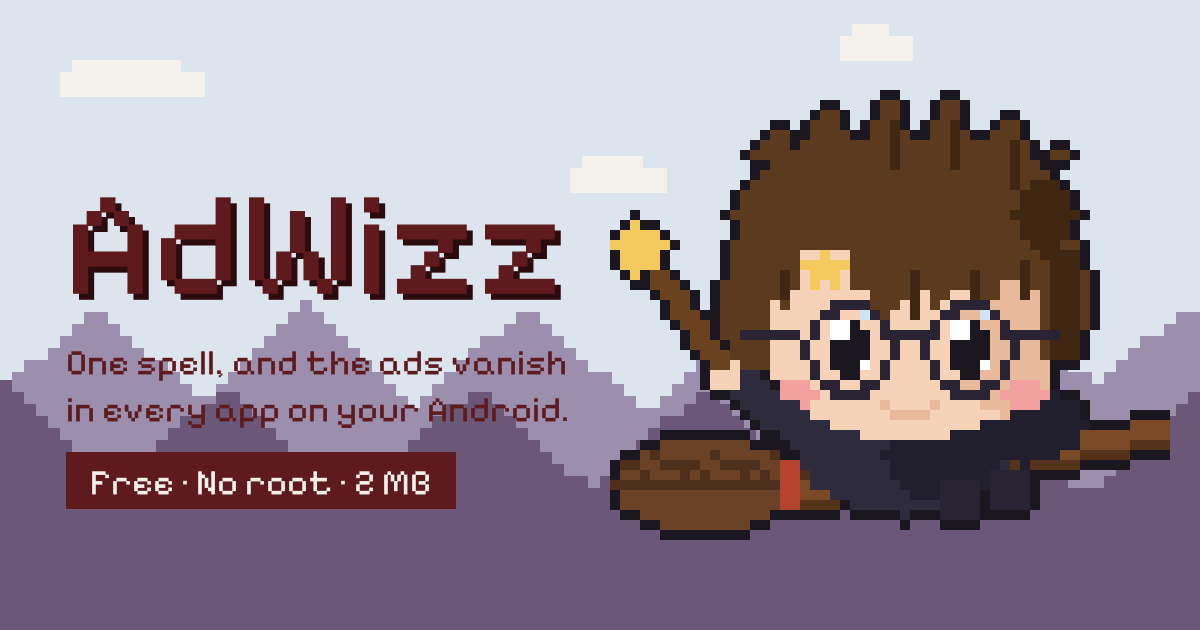
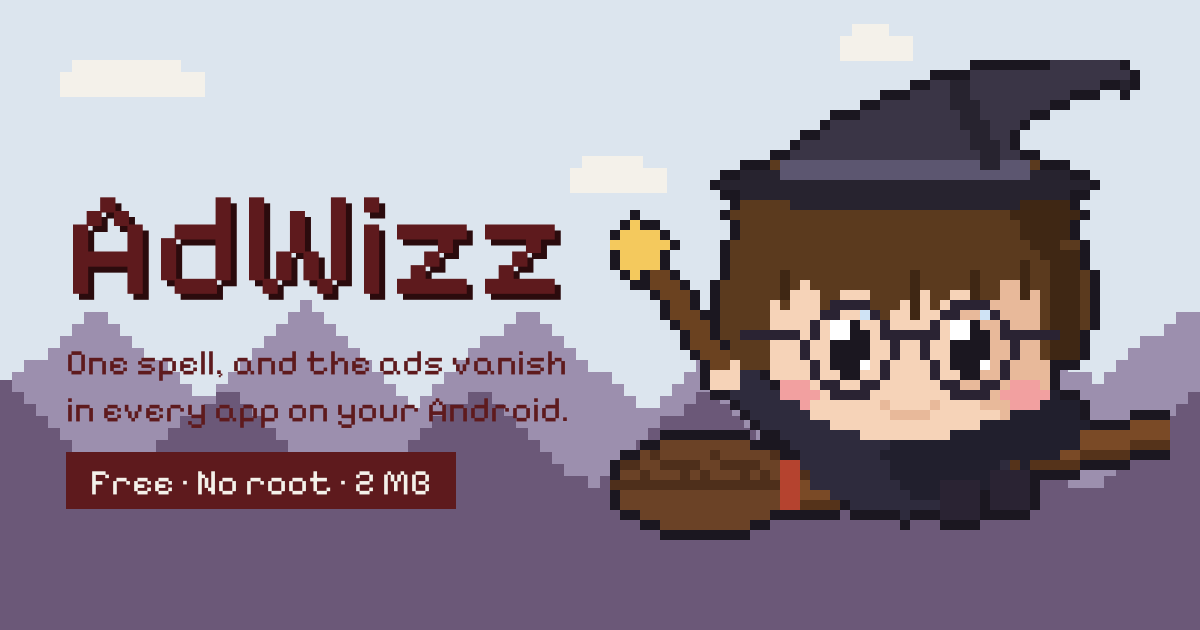
Wizard: black pointed hat instead of the forehead star

Changed region(s): [[0.5858, 0.0905, 0.9558, 0.3317], [0.6475, 0.3921, 0.7092, 0.4825]]

diff --git a/app/src/main/java/rocks/chirag/adwizz/ui/WizardIdleFrame.kt b/app/src/main/java/rocks/chirag/adwizz/ui/WizardIdleFrame.kt
@@ -5,28 +5,31 @@ package rocks.chirag.adwizz.ui
 /** Wizard frame: riding, wand tucked along the broom. */
 internal object WizardIdleFrame {
     val ROWS = arrayOf(
-        "...........................OO....OO.....................",
-        ".....................OO...ONNO..ONNO....................",
-        "....................ONNO..ONNO..ONNO...OO...............",
-        "................OO.ONNNO.ONNnO.ONNnO..ONNO..............",
-        "...............ONNOONNNNOONNnNOONNnNOONNNO..............",
-        "..............ONNNONNNNNNNNNnNNNNNnNNNNNnNO.OO..........",
-        ".............ONNNNNNNNNNNNNNnNNNNNnNNNNNnNOONNO.........",
-        "..............OONNNNNNNNNNNNnNNNNNnNNNNNnNNOOO..........",
-        "..............ONNNNNNNNNNNNNNNNNNNNNNNNNnNNNO...........",
-        ".............ONNNNNNNNNNNNNNNNNNNNNNNNNNnNnnnO..........",
-        "............ONNNNNNNNNNNNNNNNNNNNNNNNNNNNnnnnnO.........",
-        "............ONNNNNNNNNNNNNNNNNNNNNNNNNNNNnnnnnO.........",
+        "....................................OOOOOOOOHHHHHHHO....",
+        "................................OOOOHHHHHHHHHHHHHHHHO...",
+        "..............................OOHHhhHHHHHHHHHHHHHOOhO...",
+        "...........................OOOHHHHhhHHHHHHHHHHOOO..O....",
+        ".........................OOHHHHHHHhhhHHHHHHHOO..........",
+        "......................OOOHHHHHHHHHHhhHHHHHOO............",
+        ".....................OHHHHHHHHHHHHHhhhHHHO..............",
+        "...................OOHHHHHHHHHHHHHHHhhHHO...............",
+        "..................OHHHHHHHHHHHHHHHHHhhhHO...............",
+        "................OOHHHHHHHHHHHHHHHHHHHhhHHOO.............",
+        ".............OOONBBBBBBBBBBBBBBBBBBBBhhBBBNOOO..........",
+        "...........OOhhhhBBBBBBBBBBBBBBBBBBBBBBBBBhhhhOO........",
+        "..........OhhhhhhhhhhhhhhhhhhhhhhhhhhhhhhhhhhhhhO.......",
+        "...........OOhhhhhhhhhhhhhhhhhhhhhhhhhhhhhhhhhOO........",
+        "............ONNNNNhhhhhhhhhhhhhhhhhhhhhhhnnnnnO.........",
         "...........ONNNNNNNNNNNNNNNNNNNNNNNNNNNNnnnnnnnO........",
         "............ONNNNNNNNNNNNNNNNNNNNNNNNNNNNnnnnnO.........",
         "............ONNNNNNNNNNNNNNNNNNNNNNNNNNNNnnnnnO.........",
         "...........ONNNNNNNNNNNNNNNNNNNNNNNNNNNNNNnnnNNO........",
-        "...........ONNNNNNNFFSFFNNNNNNNNNNNNNNNNNNNnnnnO........",
-        "...........ONNNNNNNSSSSSNNNNNNNNNNNNNNNNNnNNnnnO........",
-        "...........ONNNNNnNFSSSFNNNNNNnNNNNNnNNNNnNNnnnNO.......",
-        "..........ONNNNNNnNFSFSFNNNNNNnNNNNNnNNffnNNnnnNO.......",
-        "..........ONNNNNNnFFFFFFFFNNNNnFNNFFnNNffnfNnnnNO.......",
-        "..........ONNNNNFNFFFFGGGGNNNFnFNFGGGGfffffNnnnNO.......",
+        "...........ONNNNNNNNNNNNNNNNNNNNNNNNNNNNNNNnnnnO........",
+        "...........ONNNNNNNNNNNNNNNNNNNNNNNNNNNNNnNNnnnO........",
+        "...........ONNNNNnNNNNNNNNNNNNnNNNNNnNNNNnNNnnnNO.......",
+        "..........ONNNNNNnNFNNNNNNNNNNnNNNNNnNNffnNNnnnNO.......",
+        "..........ONNNNNNnFFFNNFFFNNNNnFNNFFnNNffnfNnnnNO.......",
+        "..........ONNNNNFNFFFNGGGGNNNFnFNFGGGGfffffNnnnNO.......",
         "..........ONNNNNFFFFFGGFFgGNFFnFFGGffgGffffNnnnNO.......",
         "..........ONNNNNFFFFGFwwEFFGFFFFGFwwEffGfffNnnnNO.......",
         "..........ONNGGGGGGFGFwwEEFGGGGGGFwwEEfGGGGGGnnO........",

diff --git a/app/src/main/java/rocks/chirag/adwizz/ui/WizardCastingFrame.kt b/app/src/main/java/rocks/chirag/adwizz/ui/WizardCastingFrame.kt
@@ -5,28 +5,31 @@ package rocks.chirag.adwizz.ui
 /** Wizard frame: wand raised, casting the spell. */
 internal object WizardCastingFrame {
     val ROWS = arrayOf(
-        "...........................OO....OO.....................",
-        ".....................OO...ONNO..ONNO....................",
-        "....................ONNO..ONNO..ONNO...OO...............",
-        "................OO.ONNNO.ONNnO.ONNnO..ONNO..............",
-        "...............ONNOONNNNOONNnNOONNnNOONNNO..............",
-        "..............ONNNONNNNNNNNNnNNNNNnNNNNNnNO.OO..........",
-        ".............ONNNNNNNNNNNNNNnNNNNNnNNNNNnNOONNO.........",
-        "..............OONNNNNNNNNNNNnNNNNNnNNNNNnNNOOO..........",
-        "..............ONNNNNNNNNNNNNNNNNNNNNNNNNnNNNO...........",
-        ".............ONNNNNNNNNNNNNNNNNNNNNNNNNNnNnnnO..........",
-        "............ONNNNNNNNNNNNNNNNNNNNNNNNNNNNnnnnnO.........",
-        "............ONNNNNNNNNNNNNNNNNNNNNNNNNNNNnnnnnO.........",
+        "....................................OOOOOOOOHHHHHHHO....",
+        "................................OOOOHHHHHHHHHHHHHHHHO...",
+        "..............................OOHHhhHHHHHHHHHHHHHOOhO...",
+        "...........................OOOHHHHhhHHHHHHHHHHOOO..O....",
+        ".........................OOHHHHHHHhhhHHHHHHHOO..........",
+        "......................OOOHHHHHHHHHHhhHHHHHOO............",
+        ".....................OHHHHHHHHHHHHHhhhHHHO..............",
+        "...................OOHHHHHHHHHHHHHHHhhHHO...............",
+        "..................OHHHHHHHHHHHHHHHHHhhhHO...............",
+        "................OOHHHHHHHHHHHHHHHHHHHhhHHOO.............",
+        ".............OOONBBBBBBBBBBBBBBBBBBBBhhBBBNOOO..........",
+        "...........OOhhhhBBBBBBBBBBBBBBBBBBBBBBBBBhhhhOO........",
+        "..........OhhhhhhhhhhhhhhhhhhhhhhhhhhhhhhhhhhhhhO.......",
+        "...........OOhhhhhhhhhhhhhhhhhhhhhhhhhhhhhhhhhOO........",
+        "............ONNNNNhhhhhhhhhhhhhhhhhhhhhhhnnnnnO.........",
         "..O........ONNNNNNNNNNNNNNNNNNNNNNNNNNNNnnnnnnnO........",
         ".OSOO.......ONNNNNNNNNNNNNNNNNNNNNNNNNNNNnnnnnO.........",
         "OSSSSO......ONNNNNNNNNNNNNNNNNNNNNNNNNNNNnnnnnO.........",
         "SSSSSSO....ONNNNNNNNNNNNNNNNNNNNNNNNNNNNNNnnnNNO........",
-        "OSSSSO.....ONNNNNNNFFSFFNNNNNNNNNNNNNNNNNNNnnnnO........",
-        "OSSSSO.....ONNNNNNNSSSSSNNNNNNNNNNNNNNNNNnNNnnnO........",
-        ".OSOWWO....ONNNNNnNFSSSFNNNNNNnNNNNNnNNNNnNNnnnNO.......",
-        "..OOWWWO..ONNNNNNnNFSFSFNNNNNNnNNNNNnNNffnNNnnnNO.......",
-        "....OWWWO.ONNNNNNnFFFFFFFFNNNNnFNNFFnNNffnfNnnnNO.......",
-        ".....OWWO.ONNNNNFNFFFFGGGGNNNFnFNFGGGGfffffNnnnNO.......",
+        "OSSSSO.....ONNNNNNNNNNNNNNNNNNNNNNNNNNNNNNNnnnnO........",
+        "OSSSSO.....ONNNNNNNNNNNNNNNNNNNNNNNNNNNNNnNNnnnO........",
+        ".OSOWWO....ONNNNNnNNNNNNNNNNNNnNNNNNnNNNNnNNnnnNO.......",
+        "..OOWWWO..ONNNNNNnNFNNNNNNNNNNnNNNNNnNNffnNNnnnNO.......",
+        "....OWWWO.ONNNNNNnFFFNNFFFNNNNnFNNFFnNNffnfNnnnNO.......",
+        ".....OWWO.ONNNNNFNFFFNGGGGNNNFnFNFGGGGfffffNnnnNO.......",
         ".....OWWWOONNNNNFFFFFGGFFgGNFFnFFGGffgGffffNnnnNO.......",
         "......OWWWONNNNNFFFFGFwwEFFGFFFFGFwwEffGfffNnnnNO.......",
         ".......OWWONNGGGGGGFGFwwEEFGGGGGGFwwEEfGGGGGGnnO........",

diff --git a/docs/404.html b/docs/404.html
@@ -1,4 +1,4 @@
 <!doctype html><html lang="en"><head><meta charset="utf-8"><meta name="viewport" content="width=device-width,initial-scale=1">
 <title>Page not found — AdWizz</title><meta name="robots" content="noindex"><link rel="canonical" href="https://chiragkushwaha.github.io/AdWizz/">
 <style>body{margin:0;min-height:100vh;display:grid;place-items:center;background:#dce5ee;color:#3a1215;font:18px/1.5 system-ui,sans-serif;text-align:center;padding:16px}a{color:#5e1a1d;font-weight:700}</style></head>
-<body><main><img src="/AdWizz/img/wizard.png" width="224" height="188" alt="AdWizz wizard"><h1>This page vanished</h1><p>The wizard may have cast one spell too many.</p><p><a href="/AdWizz/">Back to AdWizz</a></p></main></body></html>
+<body><main><img src="/AdWizz/img/wizard.png" width="224" height="200" alt="AdWizz wizard"><h1>This page vanished</h1><p>The wizard may have cast one spell too many.</p><p><a href="/AdWizz/">Back to AdWizz</a></p></main></body></html>

diff --git a/app/src/main/java/rocks/chirag/adwizz/ui/WizardArt.kt b/app/src/main/java/rocks/chirag/adwizz/ui/WizardArt.kt
@@ -4,17 +4,20 @@ import androidx.compose.ui.graphics.Color
 
 // GENERATED by scripts/make_wizard.py — edit the script, not this file.
 
-/** AdWizz's pixel wizard on a broom (56x47 cells). '.' is transparent. */
+/** AdWizz's pixel wizard on a broom (56x50 cells). '.' is transparent. */
 object WizardArt {
     const val WIDTH = 56
-    const val HEIGHT = 47
+    const val HEIGHT = 50
 
     /** Wand tip cell in the casting frame, where the spell sparkles start. */
     const val WAND_X = 2
-    const val WAND_Y = 15
+    const val WAND_Y = 18
 
     val palette: Map<Char, Color> = mapOf(
         'O' to Color(0xFF1B1720),
+        'H' to Color(0xFF3A3546),
+        'h' to Color(0xFF27232F),
+        'B' to Color(0xFF5C5670),
         'S' to Color(0xFFF4C95D),
         'F' to Color(0xFFF6D3B8),
         'f' to Color(0xFFE8B99A),

diff --git a/app/src/test/java/rocks/chirag/adwizz/ui/ArtTest.kt b/app/src/test/java/rocks/chirag/adwizz/ui/ArtTest.kt
@@ -22,9 +22,9 @@ class WizardArtTest {
         assertNotEquals(WizardArt.IDLE.joinToString(), WizardArt.CASTING.joinToString())
     }
 
-    @Test fun wizardHasHairGlassesStarCloakEyesAndBroom() {
+    @Test fun wizardHasHatHairGlassesCloakEyesAndBroom() {
         val all = WizardArt.CASTING.joinToString("")
-        listOf('N', 'G', 'S', 'C', 'K', 'Y', 'F', 'E').forEach { assertTrue("missing '$it'", it in all) }
+        listOf('H', 'N', 'G', 'C', 'K', 'Y', 'F', 'E').forEach { assertTrue("missing '$it'", it in all) }
     }
 }
 

diff --git a/docs/index.html b/docs/index.html
@@ -64,7 +64,7 @@
         </div>
         <p class="meta" id="version" aria-live="polite">Android 7.0+ · about 2 MB · free &amp; open source (MIT)</p>
       </div>
-      <img class="wizard" src="img/wizard.png" width="448" height="376" fetchpriority="high" decoding="async" alt="AdWizz's pixel wizard flying on a broom">
+      <img class="wizard" src="img/wizard.png" width="448" height="400" fetchpriority="high" decoding="async" alt="AdWizz's pixel wizard flying on a broom">
     </section>
 
     <aside class="panel qr-card">

diff --git a/scripts/make_wizard.py b/scripts/make_wizard.py
@@ -8,8 +8,8 @@ Generates AdWizz's pixel-art wizard from one definition:
   - app/src/main/res/mipmap-*/ic_launcher.png                (icons for Android 6-7)
   - app/src/main/res/drawable/ic_shield.xml                  (notification / tile icon)
 
-The wizard is an original character: a young wizard with messy brown hair, round glasses, a gold
-star on the forehead and a dark cloak, riding a broom.
+The wizard is an original character: a young wizard with messy brown hair, round glasses, a black
+pointed hat and a dark cloak, riding a broom.
 Run from the repo root:  python3 scripts/make_wizard.py   (needs Pillow for the PNGs)
 """
 import os
@@ -21,7 +21,10 @@ RES = os.path.join(ROOT, "app/src/main/res")
 
 PALETTE = {
     "O": "#1B1720",  # outline
-    "S": "#F4C95D",  # gold (forehead star, wand tip)
+    "H": "#3A3546",  # hat (black, a touch lighter than the outline so it reads at night)
+    "h": "#27232F",  # hat shade
+    "B": "#5C5670",  # hat band
+    "S": "#F4C95D",  # gold (wand tip)
     "F": "#F6D3B8",  # skin
     "f": "#E8B99A",  # skin shade
     "E": "#1B1720",  # eye
@@ -80,7 +83,7 @@ def wizard(casting):
     """
     Young chibi wizard in the design's pixel style: oversized head (~2/3 of the height), messy
     hair, big eyes, tiny dark cloak, flying on a broom with the bristles behind (left).
-    Round glasses and a gold star on the forehead (AdWizz's mark: the spell's star).
+    Round glasses and a black pointed wizard hat.
     """
     g = blank()
     # Broom: twig bristles on the left, red band, stick rising gently to the right.
@@ -106,12 +109,7 @@ def wizard(casting):
     # Hair: messy mop with tufts sticking up (no hat). Jagged bangs of uneven length, side locks
     # over the ears, darker strands on the shadow side (right).
     ellipse(g, 29, 15, 17, 8, "N")
-    # Tufts: little triangles leaning back (right), like wind in the hair while flying.
-    for tip_x, tip_y, base in [(17, 7, 3), (22, 5, 3), (28, 4, 3), (34, 4, 3), (40, 6, 3), (45, 9, 2)]:
-        for y in range(tip_y, 10):
-            w = (y - tip_y) * base / (10 - tip_y) + 0.5
-            rect(g, int(tip_x - w), y, int(tip_x + w * 0.6), y, "N")
-    bangs = [3, 5, 6, 4, 0, 0, 0, 0, 1, 1, 3, 6, 7, 6, 3, 2, 4, 6, 5, 3, 2, 4, 6, 5, 2, 3, 5, 4, 2, 1]
+    bangs = [3, 5, 6, 4, 2, 4, 6, 5, 3, 1, 3, 6, 7, 6, 3, 2, 4, 6, 5, 3, 2, 4, 6, 5, 2, 3, 5, 4, 2, 1]
     for i, depth in enumerate(bangs):
         x = 15 + i
         rect(g, x, 16, x, 18 + depth, "N")
@@ -119,14 +117,8 @@ def wizard(casting):
     rect(g, 43, 18, 46, 29, "N"); rect(g, 46, 21, 47, 26, "N")
     for x, top, bot in [(17, 21, 23), (30, 21, 25), (36, 21, 24), (41, 20, 23)]:
         rect(g, x, top, x, bot, "n")
-    for x, y0 in [(28, 6), (34, 6), (40, 8)]:
-        rect(g, x, y0, x, y0 + 4, "n")
     ellipse(g, 43, 15, 3, 4, "n", top=12)
     rect(g, 44, 19, 46, 29, "n")
-    # Gold star on the forehead, where the bangs part.
-    rect(g, 19, 19, 23, 23, "F")
-    px(g, 21, 19, "S"); rect(g, 19, 20, 23, 20, "S"); rect(g, 20, 21, 22, 21, "S")
-    px(g, 20, 22, "S"); px(g, 22, 22, "S")
     # Big eyes with glints, rosy cheeks, small smile.
     for ex in (22, 34):
         ellipse(g, ex + 1.5, 28.5, 2.4, 3.2, "E")
@@ -144,6 +136,15 @@ def wizard(casting):
         px(g, int(cx + 2), 25, "g")
     rect(g, 28, 27, 31, 27, "G")
     rect(g, 13, 27, 18, 27, "G"); rect(g, 40, 27, 44, 27, "G")
+    # Black pointed hat: wide brim, plain band, tip flopping back to the right.
+    ellipse(g, 29, 12, 18, 2.6, "h")
+    rect(g, 17, 10, 41, 11, "B")
+    for i, y in enumerate(range(9, 0, -1)):
+        x0 = 18 + i * 1.3 + (i * i) * 0.12
+        x1 = 40 - i * 0.6 + (i * i) * 0.25
+        rect(g, int(x0), y, int(x1), y, "H")
+    rect(g, 44, 0, 50, 1, "H"); px(g, 51, 2, "h")
+    line(g, 34, 2, 37, 9, "h", thick=2)
     if casting:
         # Arm thrown forward, wand pointing up-left with a glowing star tip.
         line(g, 19, 37, 12, 31, "C", thick=3)
@@ -279,14 +280,14 @@ def write_icon_xml(g):
         with open(os.path.join(RES, "drawable", name + ".xml"), "w") as f:
             f.write(xml)
 
-    # Notification / tile icon: white pixel star, the wizard's mark (status bar icons must be one colour).
+    # Notification / tile icon: white wizard-hat silhouette (status bar icons must be one colour).
     hat = """<?xml version="1.0" encoding="utf-8"?>
-<!-- GENERATED by scripts/make_wizard.py: pixel star -->
+<!-- GENERATED by scripts/make_wizard.py: pixel wizard hat -->
 <vector xmlns:android="http://schemas.android.com/apk/res/android"
     android:width="24dp" android:height="24dp"
     android:viewportWidth="24" android:viewportHeight="24">
     <path android:fillColor="#FFFFFFFF"
-        android:pathData="M11,2h2v5h-2zM9,7h6v1h-6zM2,8h20v2h-20zM5,10h14v2h-14zM7,12h10v3h-10zM6,15h4v2h-4zM14,15h4v2h-4zM5,17h3v3h-3zM16,17h3v3h-3z" />
+        android:pathData="M14,2h4v2h-2v2h-2zM12,6h4v4h-4zM10,10h6v4h-6zM8,14h10v4h-8zM3,18h18v3h-18z" />
 </vector>
 """
     with open(os.path.join(RES, "drawable", "ic_shield.xml"), "w") as f:
